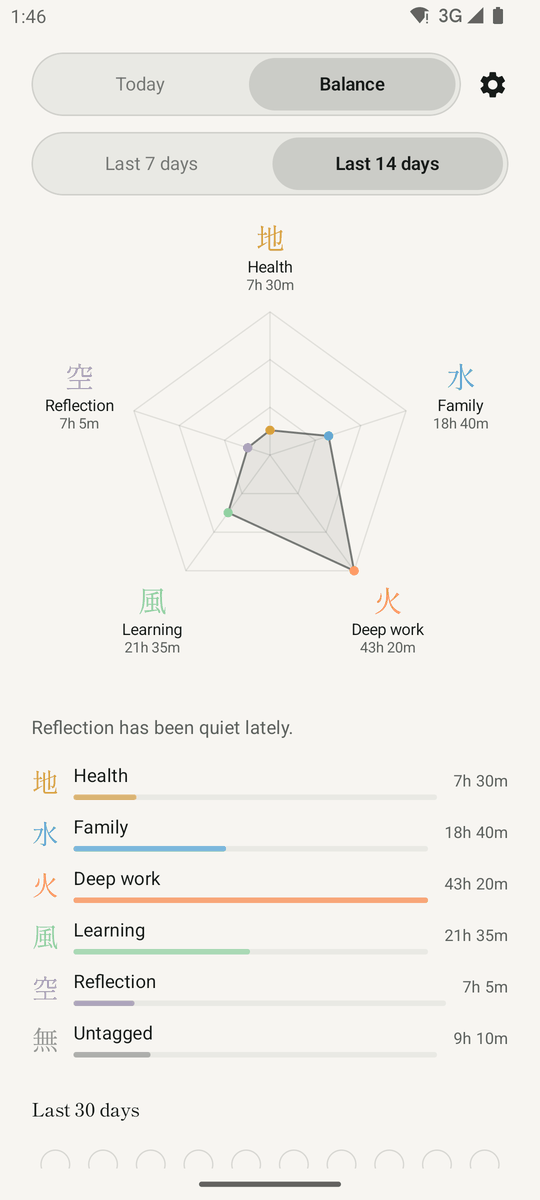
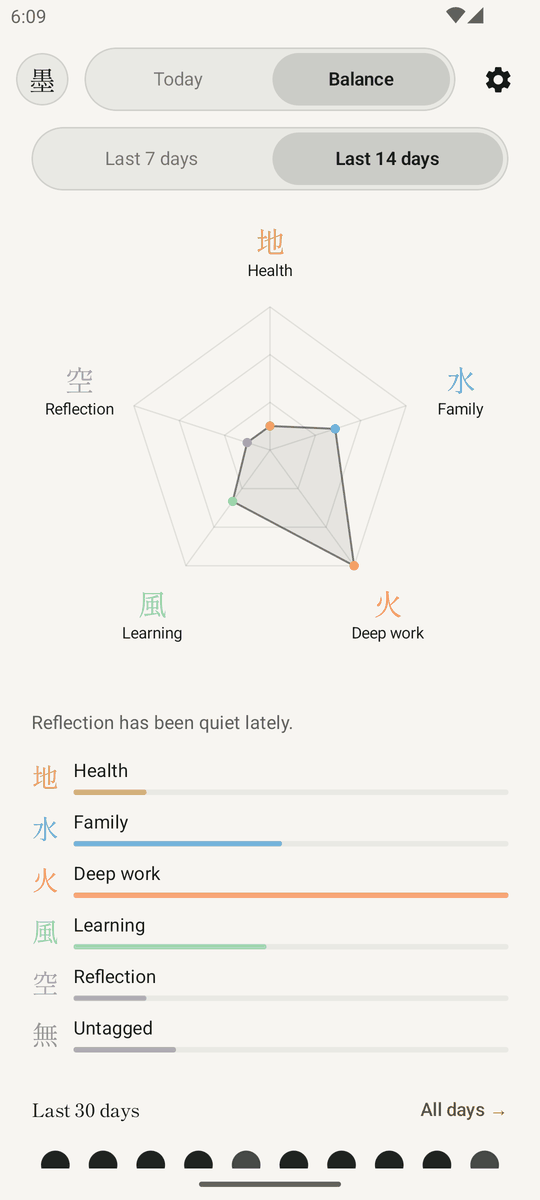
Take the hours off Balance and let the shape say the amount

diff --git a/app/src/main/java/com/sumi/app/ui/balance/BalanceScreen.kt b/app/src/main/java/com/sumi/app/ui/balance/BalanceScreen.kt
@@ -115,7 +115,7 @@ fun BalanceScreen(
         snapshot.heavy?.let { heavy ->
             val name = state.goals.nameFor(heavy.element)
             Text(
-                text = if (heavy.longWeeks) "$name has averaged more than 55 hours a week lately."
+                text = if (heavy.longWeeks) "$name has been taking long weeks lately."
                 else "$name has taken more than half your time lately.",
                 style = MaterialTheme.typography.bodyMedium,
                 color = MaterialTheme.colorScheme.onSurfaceVariant
@@ -182,11 +182,9 @@ fun BalanceScreen(
 @Composable
 private fun Pentagon(snapshot: BalanceSnapshot, goals: List<Goal>, modifier: Modifier = Modifier) {
     val ink = MaterialTheme.colorScheme.onBackground
-    val muted = MaterialTheme.colorScheme.onSurfaceVariant
     val measurer = rememberTextMeasurer()
     val kanjiStyle = TextStyle(fontFamily = SumiFonts.mincho, fontSize = 22.sp)
     val nameStyle = TextStyle(fontSize = 12.sp, color = ink)
-    val hoursStyle = TextStyle(fontSize = 11.sp, color = muted)
 
     val maxMinutes = snapshot.perElement.values.maxOf { it.toMinutes() }.coerceAtLeast(1)
 
@@ -252,8 +250,9 @@ private fun Pentagon(snapshot: BalanceSnapshot, goals: List<Goal>, modifier: Mod
                 drawCircle(Color(element.color), 3.5.dp.toPx(), vertex(i, radius * shares[i].value * growth.value))
             }
 
-            // Kanji, the goal's own name, then its time, stacked and centred on the
-            // spoke's end. Long names are cut short rather than colliding.
+            // Kanji and the goal's own name, stacked and centred on the spoke's end.
+            // No hours: the length of the spoke is the amount. Long names are cut
+            // short rather than colliding.
             val labelCenter = vertex(i, radius * 1.40f)
             val kanji = measurer.measure(element.kanji, kanjiStyle.copy(color = Color(element.color)))
             val name = measurer.measure(
@@ -263,10 +262,8 @@ private fun Pentagon(snapshot: BalanceSnapshot, goals: List<Goal>, modifier: Mod
                 maxLines = 1,
                 constraints = Constraints(maxWidth = (size.width * 0.28f).toInt())
             )
-            val hours = measurer.measure(Format.duration(time), hoursStyle)
-
-            var y = labelCenter.y - (kanji.size.height + name.size.height + hours.size.height) / 2f
-            for (line in listOf(kanji, name, hours)) {
+            var y = labelCenter.y - (kanji.size.height + name.size.height) / 2f
+            for (line in listOf(kanji, name)) {
                 drawText(line, topLeft = Offset(labelCenter.x - line.size.width / 2f, y))
                 y += line.size.height
             }
@@ -311,7 +308,14 @@ private fun BreakdownRow(kanji: String, color: Color, name: String, time: Durati
         animationSpec = tween(RESHAPE_MILLIS, easing = FastOutSlowInEasing),
         label = "bar-$key"
     )
-    Row(verticalAlignment = Alignment.CenterVertically) {
+    // Nothing on the row says the amount out loud, so the row says it for a screen
+    // reader, which has no bar to look at.
+    Row(
+        verticalAlignment = Alignment.CenterVertically,
+        modifier = Modifier.clearAndSetSemantics {
+            contentDescription = "$name, ${Format.spokenDuration(time)}"
+        }
+    ) {
         Text(
             text = kanji,
             fontFamily = SumiFonts.mincho,
@@ -343,12 +347,6 @@ private fun BreakdownRow(kanji: String, color: Color, name: String, time: Durati
                 )
             }
         }
-        Text(
-            text = Format.duration(time),
-            style = MaterialTheme.typography.bodySmall,
-            color = MaterialTheme.colorScheme.onSurfaceVariant,
-            modifier = Modifier.padding(start = 12.dp)
-        )
     }
 }
 

diff --git a/docs/content.js b/docs/content.js
@@ -782,7 +782,7 @@ val perElement = Element.entries.associateWith { element ->
       {
         title: "The pentagon",
         body: `
-          <p>Five spokes, one per element. Each spoke's length is that element's time relative to the most-used one. It is drawn on a Compose <code>Canvas</code>, with the kanji, your goal's name and the time at each tip.</p>
+          <p>Five spokes, one per element. Each spoke's length is that element's time relative to the most-used one. It is drawn on a Compose <code>Canvas</code>, with the kanji and your goal's name at each tip. No hours are printed: the length is the amount, and the exact figures live in the composer and in the Google Sheet.</p>
           <p>It grows from the centre over 700 ms when Balance opens, and each spoke glides to its new length over 520 ms when you switch windows. Before anything is logged it still shows, empty, so the screen explains itself.</p>`,
         why: `Relative length is a ratio, not a score. A short spoke is simply small; nothing is marked as behind.`
       },
@@ -797,7 +797,7 @@ val perElement = Element.entries.associateWith { element ->
         body: `
           <p>The quiet note shows where to push. Its calm opposite shows where you may be pushing too hard, with one of two lines:</p>
           <ul>
-            <li><strong>"Deep work has averaged more than 55 hours a week lately."</strong> The WHO and ILO found that 55 or more working hours a week raises the risk of stroke by about 35% and of dying from heart disease by about 17%.</li>
+            <li><strong>"Deep work has been taking long weeks lately."</strong> A long week here means the pace of 55 hours or more, the level at which the WHO and ILO found the risk of stroke rises by about 35% and of dying from heart disease by about 17%. The number stays out of the sentence; the screen carries no figures.</li>
             <li><strong>"Deep work has taken more than half your time lately."</strong> Balance research measures balance as time shared across the parts of life that matter; more than half in one of five outweighs all the others together.</li>
           </ul>
           <p>Neither appears in the first days of use, and shares are only spoken of once at least 10 hours are logged.</p>`,

diff --git a/README.md b/README.md
@@ -23,6 +23,7 @@ No streaks, no scores, no notifications. A missed hour is just a missed hour.
 - **Five goals, five elements.** Your goals are paired with the Godai, the five classical Japanese elements: 地 Earth, 水 Water, 火 Fire, 風 Wind and 空 Void. Name Fire "Workout" and it is called Workout everywhere. Time with no element is 無, untagged.
 - **Today.** The day as a timesheet, with unlogged gaps you can tap to fill.
 - **Balance.** A pentagon of the last 7 or 14 days and a dated 30-day grid, showing where to push and where you may be pushing too hard: a gentle note when a goal has been quiet lately, or when one has taken more than half your time.
+- **Shape, not figures.** Balance carries no hours at all: the length of a spoke and of a bar is the amount. The exact times stay where they are needed, in the composer, on Today, in your Google Sheet, and in what a screen reader reads aloud.
 - **Every day you have logged.** Tap the grid to open month calendars you can scroll back through, and tap any day to see what it held.
 - **Google Sheets, optional.** Behind the mark at the top left, Sumi keeps a spreadsheet in your own Google Drive up to date, one tab per month, even after being offline.
 - **Inside Sumi.** A slideshow study guide to how the app is built, readable inside the app.
